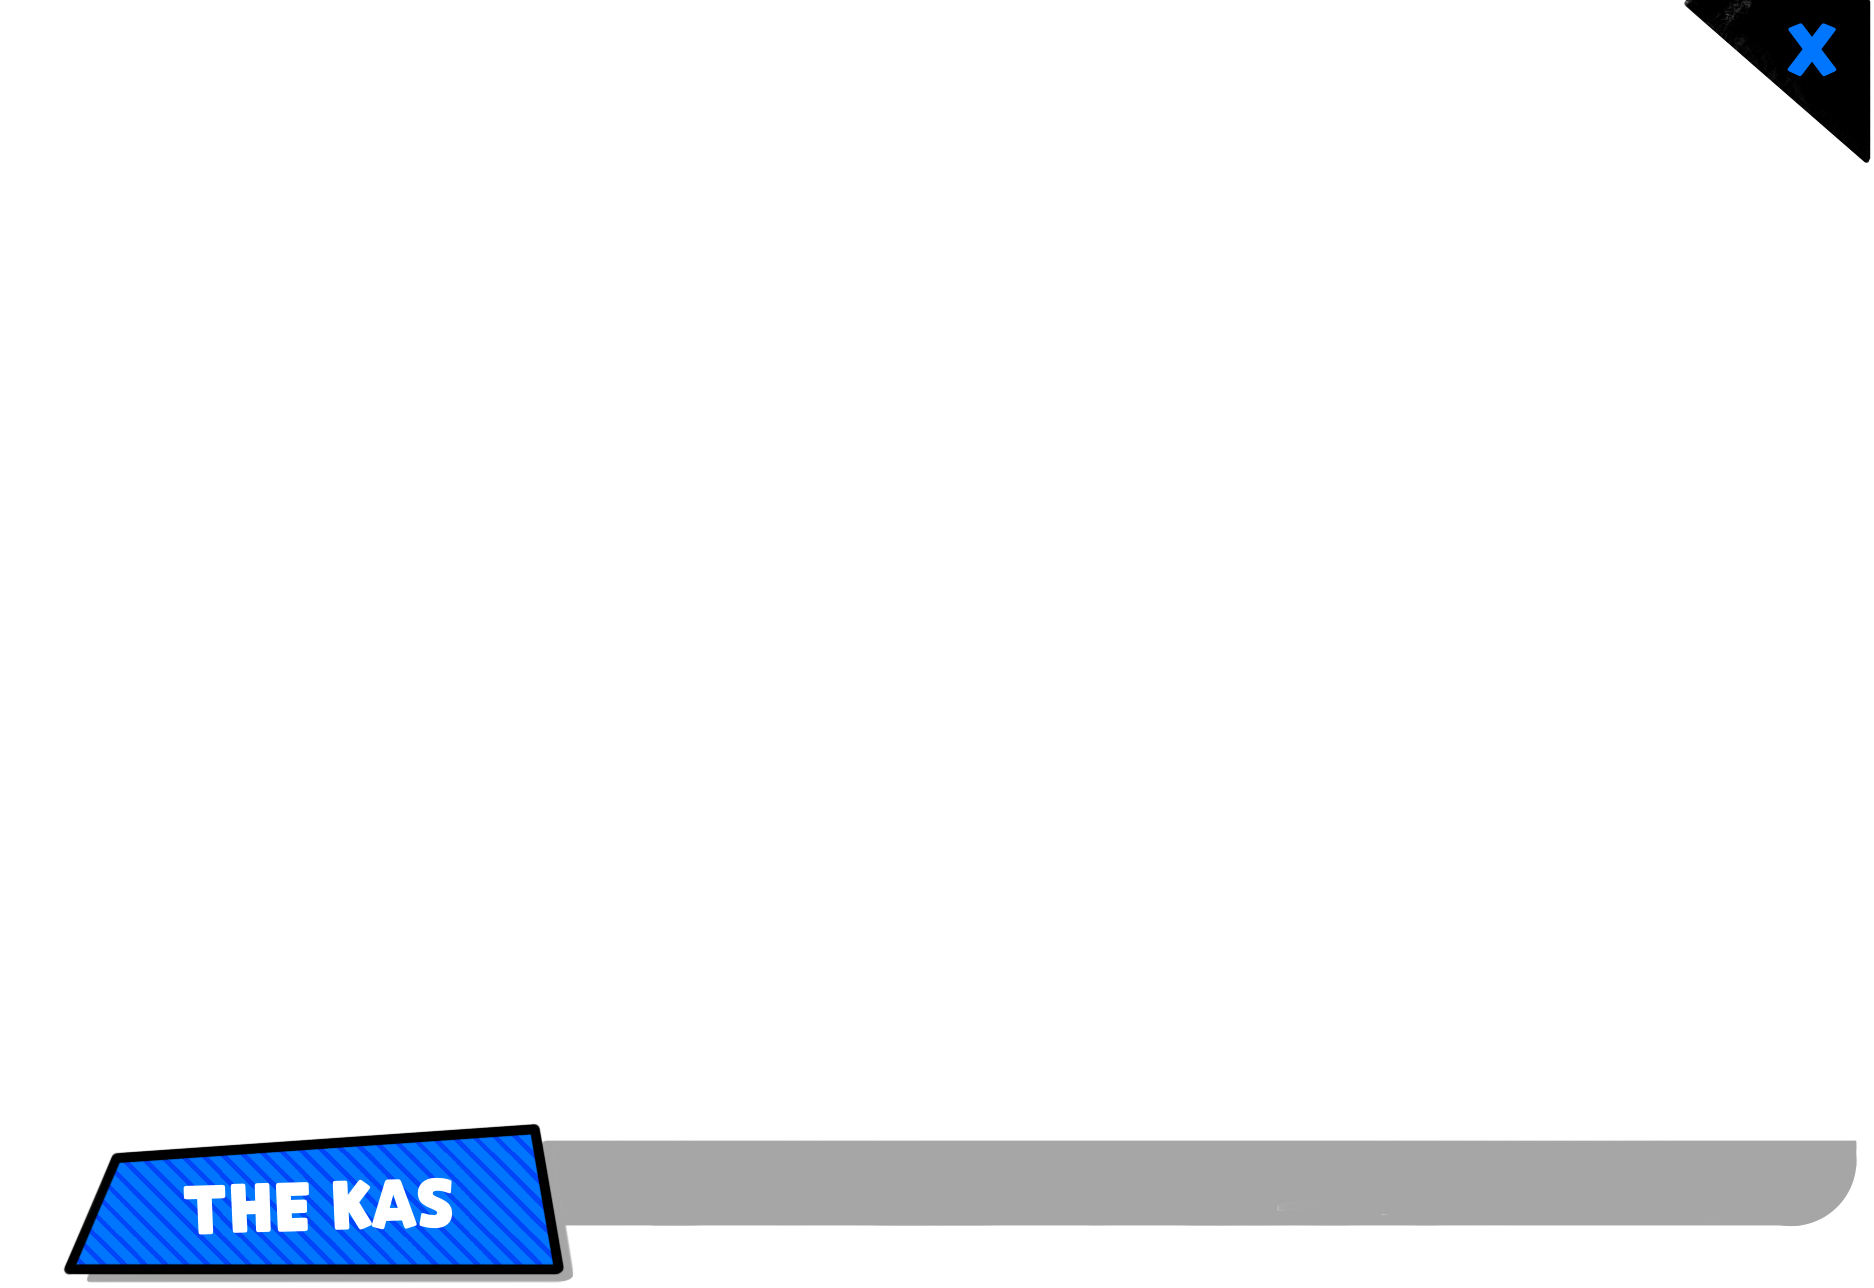
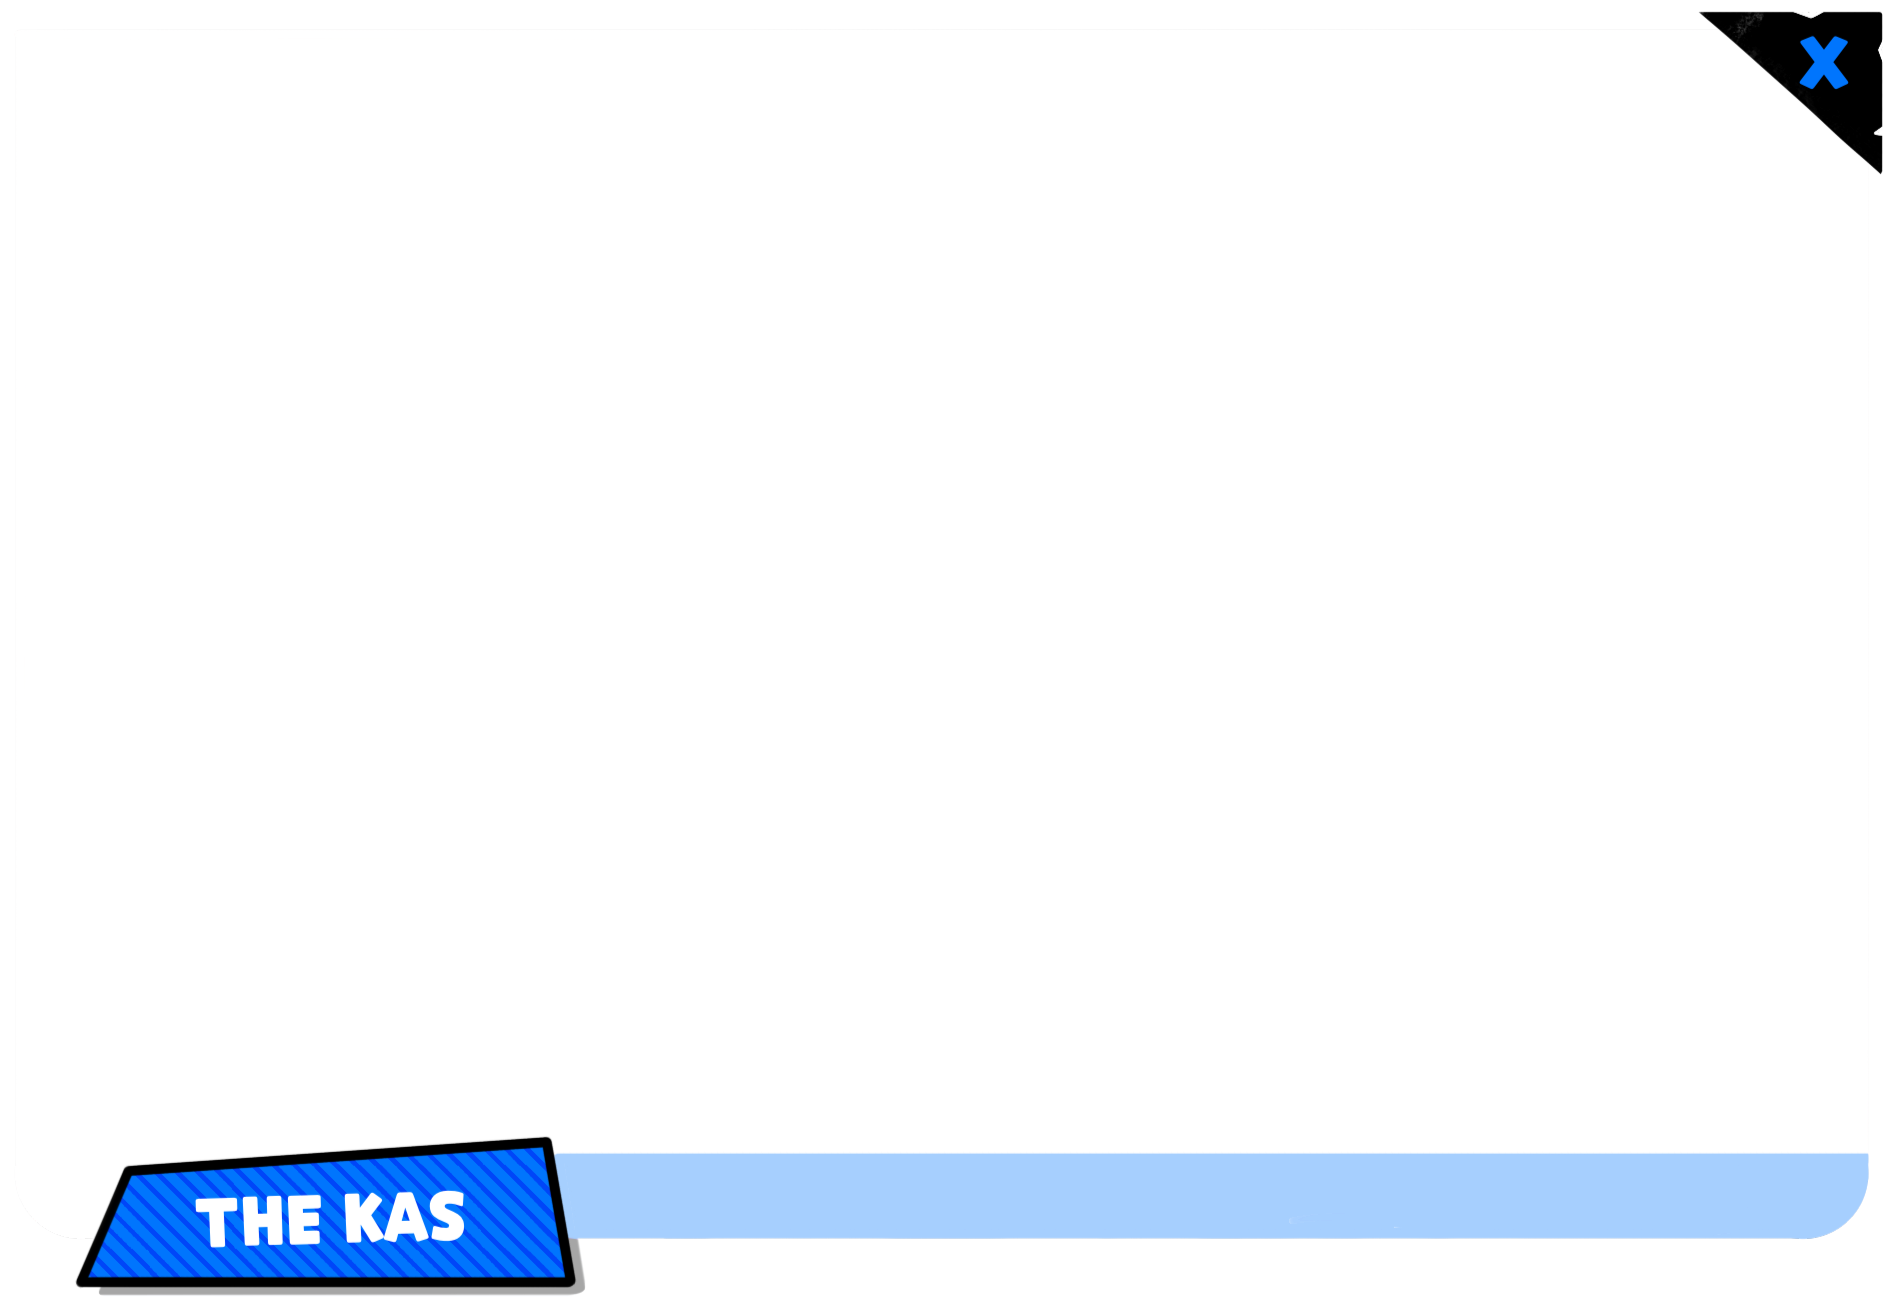
fix : update backgrould

Changed region(s): [[0.0309, 0.8696, 0.9904, 1.0], [0.8975, 0.0, 1.0, 0.1553]]

diff --git a/src/index.html b/src/index.html
@@ -11,7 +11,7 @@
 
         <!-- Modal -->
         <div id="modal-bg" class="modal-bg flex items-center justify-start">
-            <div class="bg-[url('../public/modal.png')] w-[860px] h-[600px] bg-cover bg-center flex flex-col items-center justify-center slide-in-left relative ml-12">
+            <div class="bg-[url('../public/modal.png')] w-[880px] h-[600px] bg-cover bg-center flex flex-col items-center justify-center slide-in-left relative ml-12">
                 <div class=" w-[720px] text-2xl text-left max-h-[400px] overflow-y-auto pr-4 scrollbar-thin scrollbar-thumb-rounded-full scrollbar-thumb-white scrollbar-track-transparent -mt-20" >
                         "Sài Gòn, Say alo sếp" là bộ drinking game vui nhộn lấy cảm hứng từ nhịp sống, văn hóa và con người Sài Gòn. Mỗi lá bài là một lát cắt đời thường – từ kẹt xe, cà phê bệt. Người chơi sẽ lần lượt bóc bài,  thực hiện thử thách – và tất nhiên, uống! Phù hợp cho những buổi tụ tập bạn bè, Muốn vừa cười, vừa say, vừa nhớ Sài Gòn theo cách không ai dạy mình.
                         "Sài Gòn, Say alo sếp" là bộ drinking game vui nhộn lấy cảm hứng từ nhịp sống, văn hóa và con người Sài Gòn. Mỗi lá bài là một lát cắt đời thường – từ kẹt xe, cà phê bệt. Người chơi sẽ lần lượt bóc bài,  thực hiện thử thách – và tất nhiên, uống! Phù hợp cho những buổi tụ tập bạn bè, Muốn vừa cười, vừa say, vừa nhớ Sài Gòn theo cách không ai dạy mình.

diff --git a/src/output.css b/src/output.css
@@ -627,6 +627,14 @@ video {
   width: 100%;
 }
 
+.w-\[880px\] {
+  width: 880px;
+}
+
+.w-\[800px\] {
+  width: 800px;
+}
+
 .-translate-x-\[10px\] {
   --tw-translate-x: -10px;
   transform: translate(var(--tw-translate-x), var(--tw-translate-y)) rotate(var(--tw-rotate)) skewX(var(--tw-skew-x)) skewY(var(--tw-skew-y)) scaleX(var(--tw-scale-x)) scaleY(var(--tw-scale-y));
@@ -787,8 +795,6 @@ body::before {
   left: 0;
   width: 100%;
   height: 100%;
-  background: rgba(0, 0, 0, 0.4);
-  /* Lớp phủ đen mờ */
   z-index: 1;
 }
 

diff --git a/src/input.css b/src/input.css
@@ -44,7 +44,6 @@ body::before {
     left: 0;
     width: 100%;
     height: 100%;
-    background: rgba(0, 0, 0, 0.4); /* Lớp phủ đen mờ */
     z-index: 1;
 }
 
